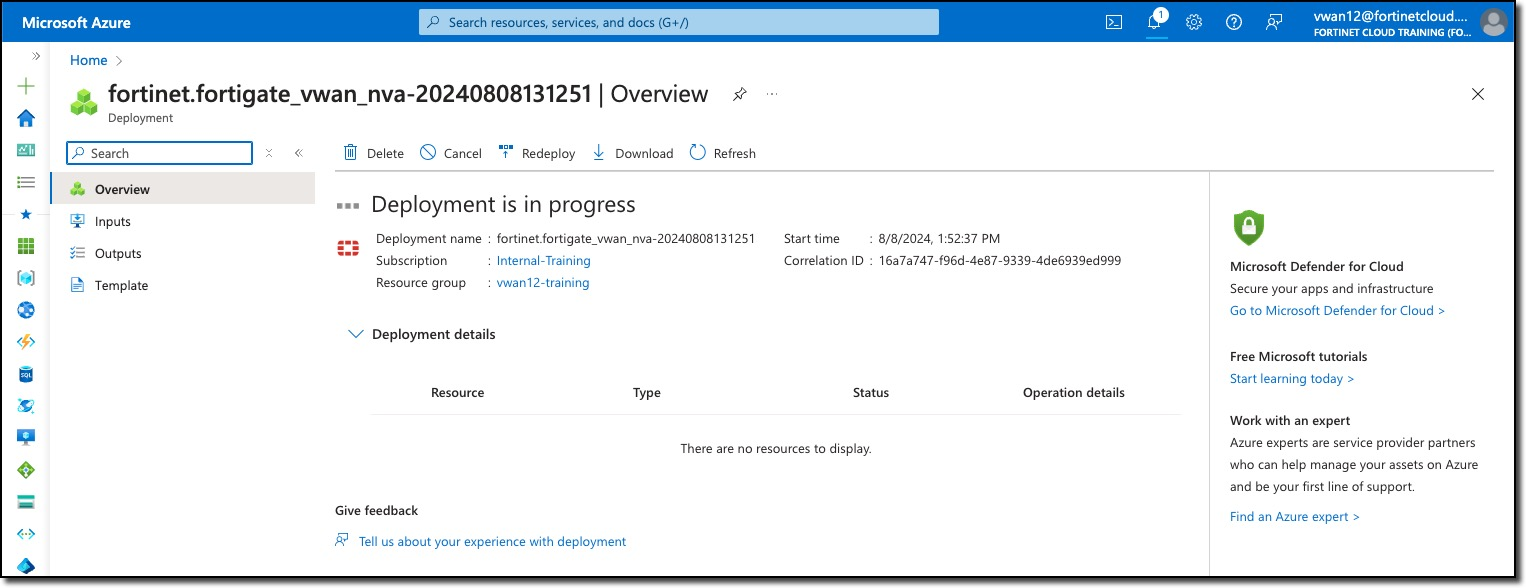
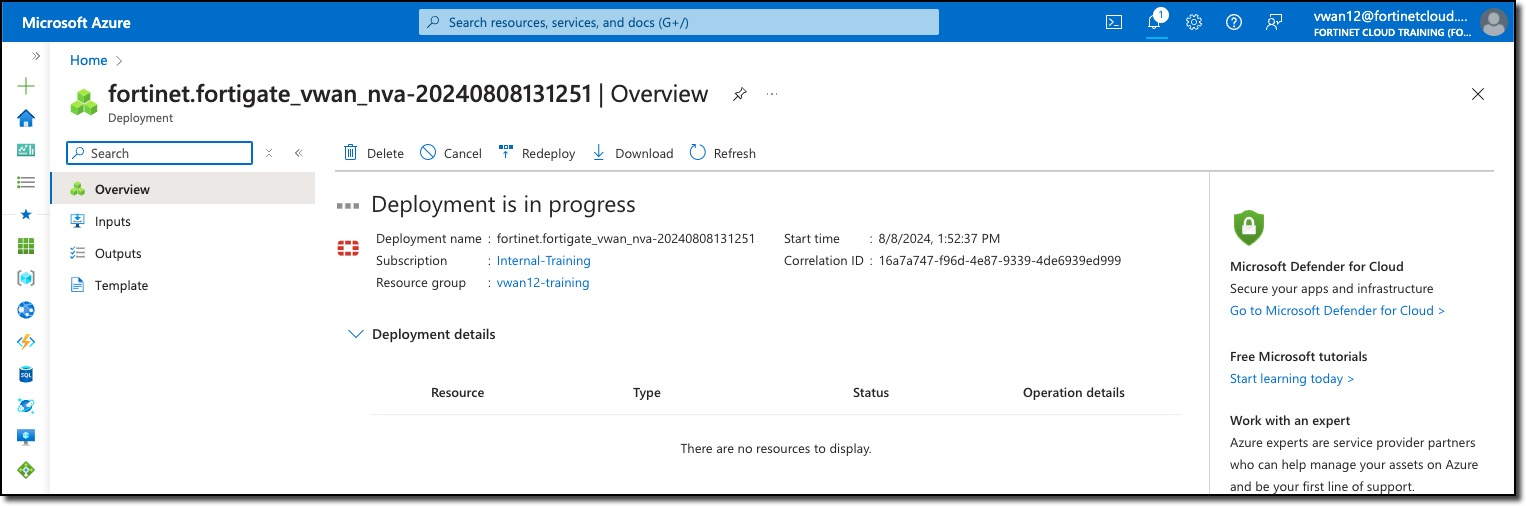
task 2 and 3 updates

diff --git a/content/01GettingStarted/Task3.md b/content/01GettingStarted/Task3.md
@@ -1,58 +1,74 @@
 ---
-title: "Task 3 - Licensing and FGSP"
-menuTitle: "Task 3 - Licensing and FGSP"
+title: "Task 3 - FGSP Setup"
+menuTitle: "Task 3 - FGSP Setup"
 weight: 15
 ---
 
-## License NVA's and enable FGSP
+## FGSP Setup
 
-1. Once the NVA's are deployed the next step is to license the NVA. Instructors will be licensing the NVA's from Fortimanager. The following command is reference only do not complete this as part of your lab. 
+After FortiGate deployment is completed the next step is to configure **FortiGate Session Life Support** [FGSP](https://docs.fortinet.com/document/fortigate/7.4.4/administration-guide/869218/fgsp-basic-peer-setup) on both FortiGates to enable session sync to support the  Active-Active architecture.
 
-```exec vm-license <token>```
+{{% notice tip %}}You will open a browser session to each FortiGate, the FortiGate GUI defaults to a 5 minute "Idle timeout". Avoid continually logging in by setting the idle timeout to 60 minutes in **System--> Settings:Administration Settings:Idle timeout**{{% /notice %}}
 
-The NVA's will reboot. 
+1. ***Access*** FortiGate CLIs.
 
-2. We need to enable FGSP on both FortiGate's since NVA's are depoyed in Active-Active setup and we need session sync. 
+    - ***Navigate*** to your Hub
+    - ***Click*** Network Virtual Appliance in the left-hand navigation
+    - ***Click*** "Click here" link under "Instances info" in the right-hand "Network Virtual Appliances" pane
+    - ***Note*** FortiGate Public IP and Private IP addresses
+    - ***Open*** a browser tab to each FortiGate using the Public IP address of each FortiGate
 
-On FGT-A CLI, configure the peer IP in which this device will peer with.
+    ![fgsp1](../images/fgsp1.jpg)
+    ![fgsp2](../images/fgsp2.jpg)
 
-{{% notice warning %}}Please copy this code blocks into notepad and edit the PeerIP address, remove the comment before you paste it on FortiGate{{% /notice %}} 
+1. ***Configure*** FGSP
 
-```
-config system standalone-cluster
-    config cluster-peer
-        edit 1
-            set peerip x.x.x.x (this will be the port2 Private IP address of peer FGT-B)
-        next
+    - ***Open*** a CLI session on each FortiGate
+
+    {{% notice warning %}}Replace **x.x.x.x** with the port2 private IP address of the other FortiGate ending with **_1**. Copy these CLI commands to notepad or similar tool to update the *peerip* address.{{% /notice %}}
+
+    On FortiGate ending with **_0** configure the peerip address with the port2 private IP address of the FortiGate ending with **_1**.
+
+    ``` bash
+    config system standalone-cluster
+        config cluster-peer
+            edit 1
+                set peerip x.x.x.x
+            next
+        end
+        set standalone-group-id 1
+        set group-member-id 1
     end
-    set standalone-group-id 1
-    set group-member-id 1
-end
-```
+    ```
 
-3. Once you paste the above content, you will see a prompt like below. select Y. 
+1. ***Answer*** "**y**" to the "Do you want to continue? (y/n)" prompt
 
-    **vwanXX-sdfw-wdmc4mms~000 (standalone-cluster) # end**
-    
-    **Changing standalone-group-id or group-member-id will potentially affect FGSP traffic.**
-    **Please first make sure the member is isolated from FGSP cluster properly.**
-    **Do you want to continue? (y/n)y**
+    **Changing standalone-group-id or group-member-id will potentially affect FGSP traffic.**</br>
+    **Please first make sure the member is isolated from FGSP cluster properly.**</br>
+    **Do you want to continue? (y/n)**</br>
 
-On FGT-B CLI, configure the peer IP in which this device will peer with:
+    {{% notice warning %}}Notice that the **group-member-id** is **2** in the CLI commands below{{% /notice %}}
 
-```
-config system standalone-cluster
-    config cluster-peer
-        edit 1
-            set peerip x.x.x.x (this will be the port2 Private IP address of peer FGT-A)
-        next
+    On FortiGate ending with **_1** configure the peerip address with the port2 private IP address of the FortiGate ending with **_1**.
+
+    ``` bash
+    config system standalone-cluster
+        config cluster-peer
+            edit 1
+                set peerip x.x.x.x
+            next
+        end
+        set standalone-group-id 1
+        set group-member-id 2
     end
-    set standalone-group-id 1
-    set group-member-id 2
-end
-```
+    ```
 
-4. You will see same prompt like Step 3. Select Y again. 
+1. ***Answer*** "**y**" to the "Do you want to continue? (y/n)" prompt
 
+    **Changing standalone-group-id or group-member-id will potentially affect FGSP traffic.**</br>
+    **Please first make sure the member is isolated from FGSP cluster properly.**</br>
+    **Do you want to continue? (y/n)**</br>
 
+FGSP is now configured and the FortiGates will share session information.
 
+Continue to the next task to verify that there is no connectivity between the VMs running in the Spoke VNETs.

diff --git a/content/01GettingStarted/Task2.md b/content/01GettingStarted/Task2.md
@@ -1,6 +1,6 @@
 ---
 title: "Task 2 - FortiGate NVA deployment in VWAN hub"
-menuTitle: "Task 2 - FortiGate NVA deployment"
+menuTitle: "Task 2 - FortiGate deployment"
 weight: 10
 ---
 
@@ -16,25 +16,25 @@ weight: 10
 
 1. ***View*** information about Hub
 
-- Name
-- Location (Region)
-- Private Address Space
+    - Name
+    - Location (Region)
+    - Private Address Space
 
 1. ***Check*** statuses
 
-- Hub status: **Succeeded**
-- Routing status: **Provisioned**
+    - Hub status: **Succeeded**
+    - Routing status: **Provisioned**
 
     ![vwan3](../images/vwan3.jpg)
 
-> Note: please move on to the next step only if Hub and Routing status have green checks.
+    {{% notice warning %}}Note: please move on to the next step **only** if Hub and Routing status have green checks.{{% /notice %}}
 
 1. ***Click*** on "Network Virtual Appliance in the "Third party providers" section of the left-hand navigation.
 1. ***Click*** the button "Create network virtual appliance"
 1. ***Select*** fortinet-sdwan-and-ngfw
 1. ***Click*** "Create". proceed to leave site to redirect to Marketplace.
 
-- If a warning is displayed about "Leaving" the **site** or **page** ***Click*** the "Leave" button
+    - If a warning is displayed about "Leaving" the **site** or **page** ***Click*** the "Leave" button
 
     ![vwan4](../images/vwan4.jpg)
 
@@ -44,48 +44,49 @@ weight: 10
 
 1. **Basics Tab values**
 
-- ***Select*** Resource Group - **vwanXX-training** -- **Be sure to select your Resource Group**
-- ***Select*** Region - East US -- **Should already be defaulted to the correct region**
-- ***Enter*** FortiGate administrative username - ```fortixperts```
-- ***Enter***  password - ```Fortixperts2024!```
-- ***Confirm*** password - ```Fortixperts2024!```
-- ***Enter*** FortiGate Name Prefix - **vwanXX** -- **Be sure to enter your allocated environment number for XX.**
-- ***Select*** FortiGate License Type - "Pay As you Go (PAYG)"
-- ***Select*** FortiGate Image Version - "7.4.X" -- **Be sure to select the highest 7.4 version.**
-- ***Select*** Azure vWan deployment type - "SDWAN + NGFW (Hybrid)"
-- ***Enter*** Application Name - vwanXX -- **Be sure to enter your allocated environment number for XX.**
-- ***Update*** Managed Resource Group - Append "_vwanXX" to the provided name -- **Be sure to enter your allocated environment number for XX.**
-- ***Click*** "Next"
+    - ***Select*** Resource Group - **vwanXX-training** -- **Be sure to select your Resource Group**
+    - ***Select*** Region - East US -- **Should already be defaulted to the correct region**
+    - ***Enter*** FortiGate administrative username - ```fortixperts```
+    - ***Enter***  password - ```Fortixperts2024!```
+    - ***Confirm*** password - ```Fortixperts2024!```
+    - ***Enter*** FortiGate Name Prefix - **vwanXX** -- **Be sure to enter your allocated environment number for XX.**
+    - ***Select*** FortiGate License Type - "Pay As you Go (PAYG)"
+    - ***Select*** FortiGate Image Version - "7.4.X" -- **Be sure to select the highest 7.4 version.**
+    - ***Select*** Azure vWan deployment type - "SDWAN + NGFW (Hybrid)"
+    - ***Enter*** Application Name - vwanXX -- **Be sure to enter your allocated environment number for XX.**
+    - ***Update*** Managed Resource Group - Append "_vwanXX" to the provided name -- **Be sure to enter your allocated environment number for XX.**
+    - ***Click*** "Next"
 
     ![vwan6](../images/vwan6.jpg)
 
 1. **FortiGate in Virtual WAN Specific Parameters Tab values**
 
-- ***Select*** Virtual WAN Hub - select vwanXX-vHub1_eastus -- **Be sure to enter your allocated environment number for XX.**
-- ***Leave*** all other items as is
-- ***Click*** "Next"
+    - ***Select*** Virtual WAN Hub - select vwanXX-vHub1_eastus -- **Be sure to enter your allocated environment number for XX.**
+    - ***Leave*** all other items as is
+    - ***Click*** "Next"
 
     ![vwan7](../images/vwan7.jpg)
 
 1. **PublicIP Verification Tab values**
 
-- ***Click*** "Next"
+    - ***Click*** "Next"
 
     ![vwan8](../images/vwan8.jpg)
 
 1. **Tags Tab values**
 
-- ***Click*** "Next"
+    - ***Click*** "Next"
 
     ![vwan9](../images/vwan9.jpg)
 
 1. **Review + create Tab values**
 
-- ***Scroll*** down to agree to the terms and conditions
-- ***Click*** "Create"
+    - ***Scroll*** down to agree to the terms and conditions
+    - ***Click*** "Create"
 
     ![vwan10](../images/vwan10.jpg)
 
-1. The FortiGate NVAs take about 15 minutes to deploy.
+    {{% notice info %}}The FortiGate NVAs take about 15 minutes to deploy. Grab a refreshment and relax! You will see the screen belows when the deployment is progressing and complete.{{% /notice %}}
 
-> Grab a refreshment ;) and relax!
+    ![vwan11](../images/vwan11.jpg)
+    ![vwan12](../images/vwan12.jpg)

diff --git a/content/01GettingStarted/_index.md b/content/01GettingStarted/_index.md
@@ -1,25 +1,33 @@
 ---
-title: "Ch 1 Secure vWAN Lab - Overview"
-menuTitle: "Ch 1: Overview"
+title: "Chapter 1 Secure vWAN Lab - Overview"
+menuTitle: "Chapter 1: Overview"
 weight: 10
 ---
 
-**Overview of your environment (15 min)**
+## Overview of your environment (15 min)
 
+Azure Virtual WAN is a networking service that brings many networking, security, and routing functionalities together to provide a single operational interface.
 
-In this lab we will go over Secure VWAN Hub deployment. Azure Virtual WAN is a networking service that brings many networking, security, and routing functionalities together to provide a single operational interface. Some of the main features include:
+Features of an Azure Virtual WAN include:
 
-  - Branch connectivity (via connectivity automation from Virtual WAN
-  - Partner devices such as SD-WAN or VPN CPE).
-  - Site-to-site VPN connectivity.
-  - Remote user VPN connectivity (point-to-site).
-  - Private connectivity (ExpressRoute).
-  - Intra-cloud connectivity (transitive connectivity for virtual networks).
-  - VPN ExpressRoute inter-connectivity.
-  - Routing, Azure Firewall, and encryption for private connectivity.
+- Branch connectivity (via connectivity automation from Virtual WAN Partner devices such as SD-WAN or VPN CPE).
+- Site-to-site VPN connectivity.
+- Remote user VPN connectivity (point-to-site).
+- Private connectivity (ExpressRoute).
+- Intra-cloud connectivity (transitive connectivity for virtual networks).
+- VPN ExpressRoute inter-connectivity.
+- Routing, Azure Firewall, and encryption for private connectivity.
 
-We will be going over Secure VWAN hub deployment which includes Fortigates deployed in the VWAN hub and also get hands on experience to do East-West Inspection between VNETS peered to a Hub. Further we will also work on setting up IPSEC tunnels to Branch Fortigates and ping across your cloud environment from your Branch Linux VM.
+This session covers the following:
 
-Here is the lab network diagram for reference:
+- FortiGate deployment into a VWAN Hub
+- East-West Inspection between workloads in VNETs peered to the Hub
+- North-South inspection between workloads in VNETs peered to the Hub and the Internet
+
+Additionally, if desired and time permits:
+
+- Setting up IPSEC tunnels to Branch FortiGates and ping across your cloud environment from your Branch VM.
+
+Environment network diagram for reference:
 
 ![networkdiagram1](./images/networkdiagram.png)
